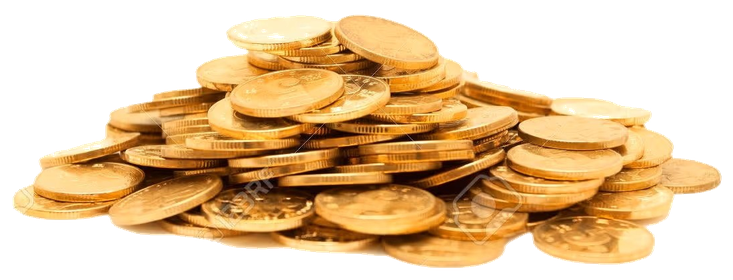
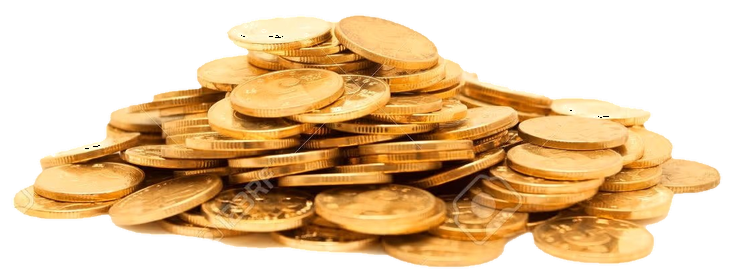
feat: pièces de la connexion détourées et agrandies ; Taxes et Contribuables retirés du menu régisseur

diff --git a/front-angular/src/app/app.routes.ts b/front-angular/src/app/app.routes.ts
@@ -14,7 +14,7 @@ export const routes: Routes = [
     children: [
       { path: 'dashboard', loadComponent: () => import('./pages/dashboard/page').then((m) => m.Dashboard) },
       { path: 'recettes', canActivate: [roleGuard(['admin', 'super_admin', 'agent', 'service_finances', 'regisseur'])], loadComponent: () => import('./pages/recettes/page').then((m) => m.Recettes) },
-      { path: 'taxes', canActivate: [roleGuard(['admin', 'super_admin', 'agent', 'regisseur'])], loadComponent: () => import('./pages/taxes/page').then((m) => m.TaxesPage) },
+      { path: 'taxes', canActivate: [roleGuard(['admin', 'super_admin', 'agent'])], loadComponent: () => import('./pages/taxes/page').then((m) => m.TaxesPage) },
       { path: 'taxes/nouvelle-transaction', canActivate: [roleGuard(['admin', 'super_admin', 'agent', 'regisseur'])], loadComponent: () => import('./pages/taxes/components/nouvelle-transaction').then((m) => m.NouvelleTransaction) },
       { path: 'taxes/:categorieId', canActivate: [roleGuard(['admin', 'super_admin', 'agent', 'etat_civil', 'regisseur'])], loadComponent: () => import('./pages/taxes/components/categorie-detail').then((m) => m.CategorieDetail) },
       { path: 'etat-civil/nouvelle', canActivate: [roleGuard(['etat_civil'])], data: { section: 'nouvelle' }, loadComponent: () => import('./pages/etat-civil/etat-civil-section-page').then((m) => m.EtatCivilSectionPage) },
@@ -46,7 +46,7 @@ export const routes: Routes = [
       { path: 'caisse/agent/:agentId', canActivate: [roleGuard(['admin', 'super_admin', 'agent', 'service_finances', 'etat_civil', 'regisseur', 'quai_peche'])], loadComponent: () => import('./pages/caisse/page').then((m) => m.Caisse) },
       { path: 'activite-agents', canActivate: [roleGuard(['admin', 'super_admin', 'regisseur'])], loadComponent: () => import('./pages/activite-agents/page').then((m) => m.ActiviteAgentsPage) },
       { path: 'impayes', canActivate: [roleGuard(['admin', 'super_admin', 'agent', 'service_finances', 'quai_peche', 'regisseur'])], loadComponent: () => import('./pages/impayes/page').then((m) => m.Impayes) },
-      { path: 'contribuables', canActivate: [roleGuard(['super_admin', 'agent', 'service_finances', 'etat_civil', 'regisseur'])], loadComponent: () => import('./pages/contribuables/page').then((m) => m.Contribuables) },
+      { path: 'contribuables', canActivate: [roleGuard(['super_admin', 'agent', 'service_finances', 'etat_civil'])], loadComponent: () => import('./pages/contribuables/page').then((m) => m.Contribuables) },
       { path: 'profil', loadComponent: () => import('./pages/profil/page').then((m) => m.ProfilPage) },
     ],
   },

diff --git a/front-angular/src/app/layout/menu.ts b/front-angular/src/app/layout/menu.ts
@@ -26,7 +26,7 @@ export const allMenuItems: MenuItem[] = [
   { path: '/motos', icon: 'ri-motorbike-line', label: 'Motos Jakarta', roles: ['quai_peche'] },
   { path: '/marche', icon: 'ri-store-2-line', label: 'Marché', roles: ['quai_peche'] },
   { path: '/recettes', icon: 'ri-money-dollar-circle-line', label: 'Recettes', roles: ['admin', 'super_admin', 'agent', 'service_finances', 'regisseur'] },
-  { path: '/taxes', icon: 'ri-file-list-3-line', label: 'Taxes', roles: ['agent', 'regisseur'] },
+  { path: '/taxes', icon: 'ri-file-list-3-line', label: 'Taxes', roles: ['agent'] },
   ...(FEATURES.formations ? [{ path: '/formations', icon: 'ri-graduation-cap-line', label: 'Formations', roles: ['admin', 'super_admin', 'agent', 'regisseur'] }] : []),
   { path: '/penalites', icon: 'ri-alert-line', label: 'Pénalités', roles: ['super_admin', 'agent', 'regisseur'] },
   { path: '/etat-civil', icon: 'ri-file-text-line', label: 'État Civil', roles: ['admin'] },
@@ -41,7 +41,7 @@ export const allMenuItems: MenuItem[] = [
   { path: '/caisse', icon: 'ri-safe-2-line', label: 'Caisse', roles: ['admin', 'super_admin', 'agent', 'service_finances', 'etat_civil', 'regisseur', 'quai_peche'] },
   { path: '/activite-agents', icon: 'ri-bar-chart-grouped-line', label: 'Activité des agents', roles: ['admin', 'super_admin', 'regisseur'] },
   { path: '/impayes', icon: 'ri-error-warning-line', label: 'Impayés', roles: ['admin', 'super_admin', 'agent', 'service_finances', 'quai_peche', 'regisseur'] },
-  { path: '/contribuables', icon: 'ri-group-line', label: 'Contribuables', roles: ['super_admin', 'agent', 'service_finances', 'etat_civil', 'regisseur'] },
+  { path: '/contribuables', icon: 'ri-group-line', label: 'Contribuables', roles: ['super_admin', 'agent', 'service_finances', 'etat_civil'] },
   { path: '/audit', icon: 'ri-file-list-3-line', label: 'Journal Audit', roles: ['super_admin'] },
 ];
 
@@ -60,10 +60,10 @@ export const roleLabels: Record<UiRole, string> = {
  * puis les services, le quai de pêche, et enfin les contribuables et les équipes.
  */
 export const ORDRE_REGISSEUR = [
-  '/dashboard', '/recettes', '/caisse', '/impayes', '/taxes', '/penalites',
+  '/dashboard', '/recettes', '/caisse', '/impayes', '/penalites',
   '/marche', '/motos', '/urbanisme',
   '/quai-peche/droits', '/quai-peche/camions',
-  '/contribuables', '/utilisateurs',
+  '/utilisateurs',
 ];
 
 export const playNotificationSound = () => {

diff --git a/front-angular/src/app/pages/impayes/page.ts b/front-angular/src/app/pages/impayes/page.ts
@@ -14,8 +14,8 @@ import { getErrorMessage } from '../../utils/form-validation';
 export class Impayes {
   private readonly api = inject(RecouvrementApi);
   private readonly auth = inject(AuthService);
-  /** La fiche contribuable n'est pas ouverte à l'administration (consultation des recettes seulement). */
-  protected readonly voitContribuables = computed(() => this.auth.role() !== 'admin');
+  /** La page Contribuables n'est ouverte ni à l'administration ni au régisseur : le nom s'affiche sans lien. */
+  protected readonly voitContribuables = computed(() => this.auth.role() !== 'admin' && this.auth.role() !== 'regisseur');
 
   protected readonly data = signal<ImpayesData | null>(null);
   protected readonly erreur = signal('');

diff --git a/front-angular/src/app/features/login/login.html b/front-angular/src/app/features/login/login.html
@@ -39,7 +39,7 @@
             Plateforme de gestion<br />des taxes et redevances municipales
           </p>
           <!-- Photo détourée (fond transparent). -->
-          <img src="/login-pieces-tas.png" alt="" aria-hidden="true" class="mt-4 min-h-0 w-80 flex-shrink object-contain drop-shadow-md short:mt-3 short:w-60 tiny:hidden" />
+          <img src="/login-pieces-tas.png" alt="" aria-hidden="true" class="mt-5 min-h-0 w-[26rem] max-w-full flex-shrink object-contain drop-shadow-lg short:mt-3 short:w-72 tiny:hidden" />
         </div>
       </section>
 
